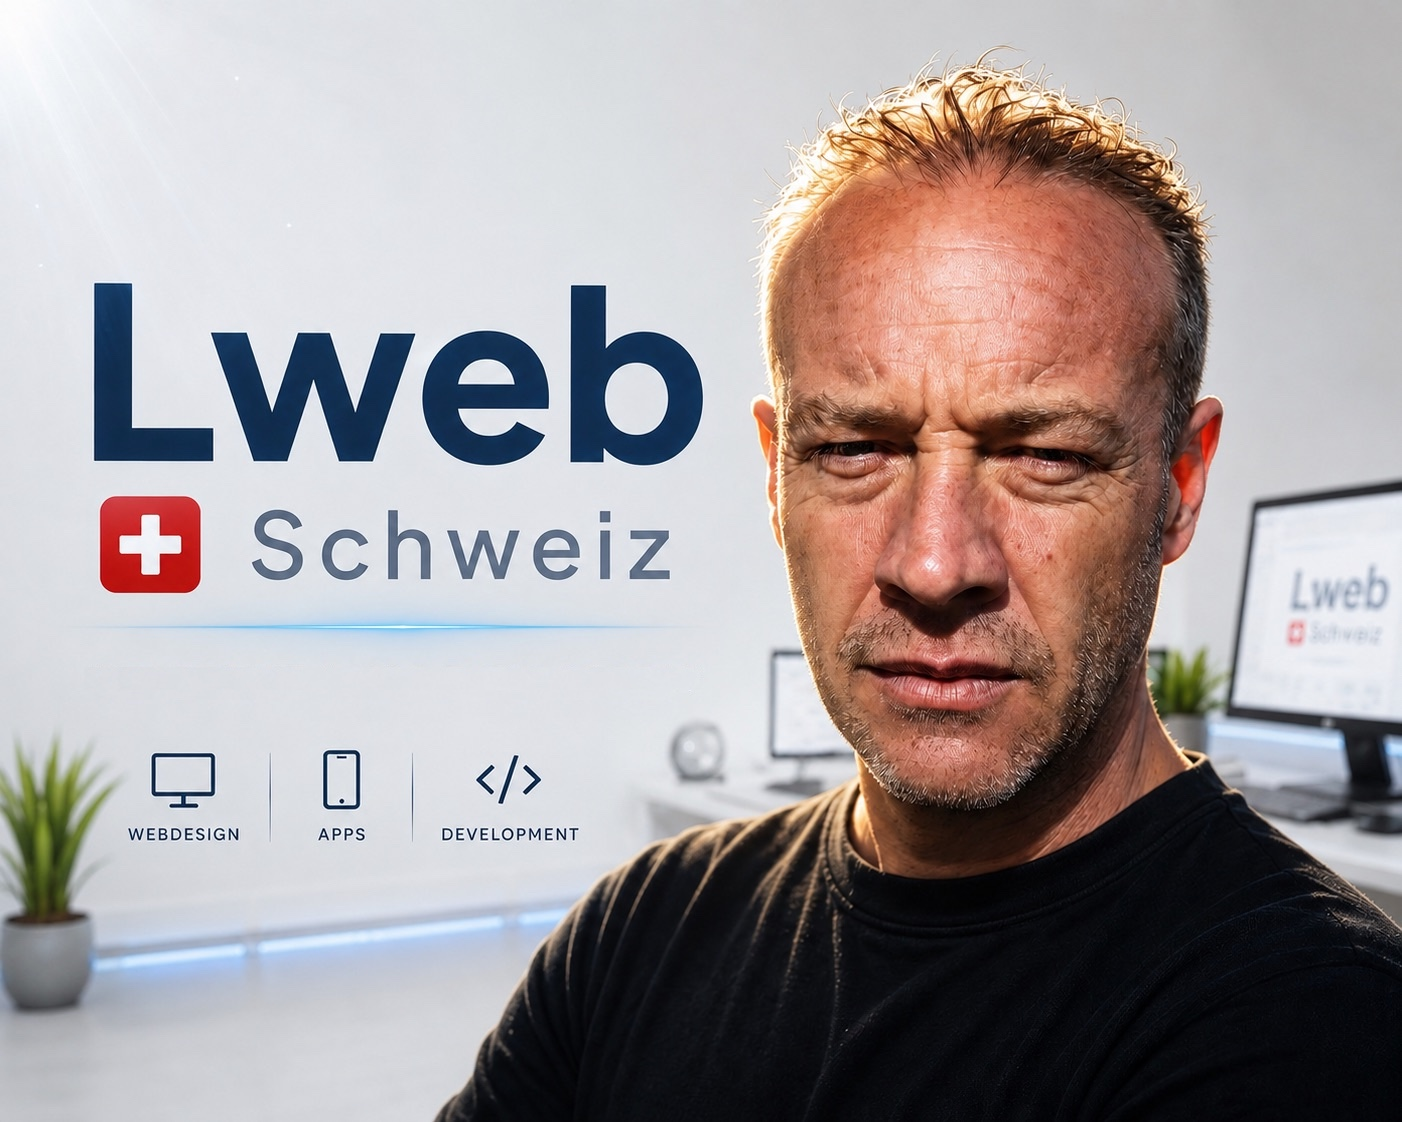
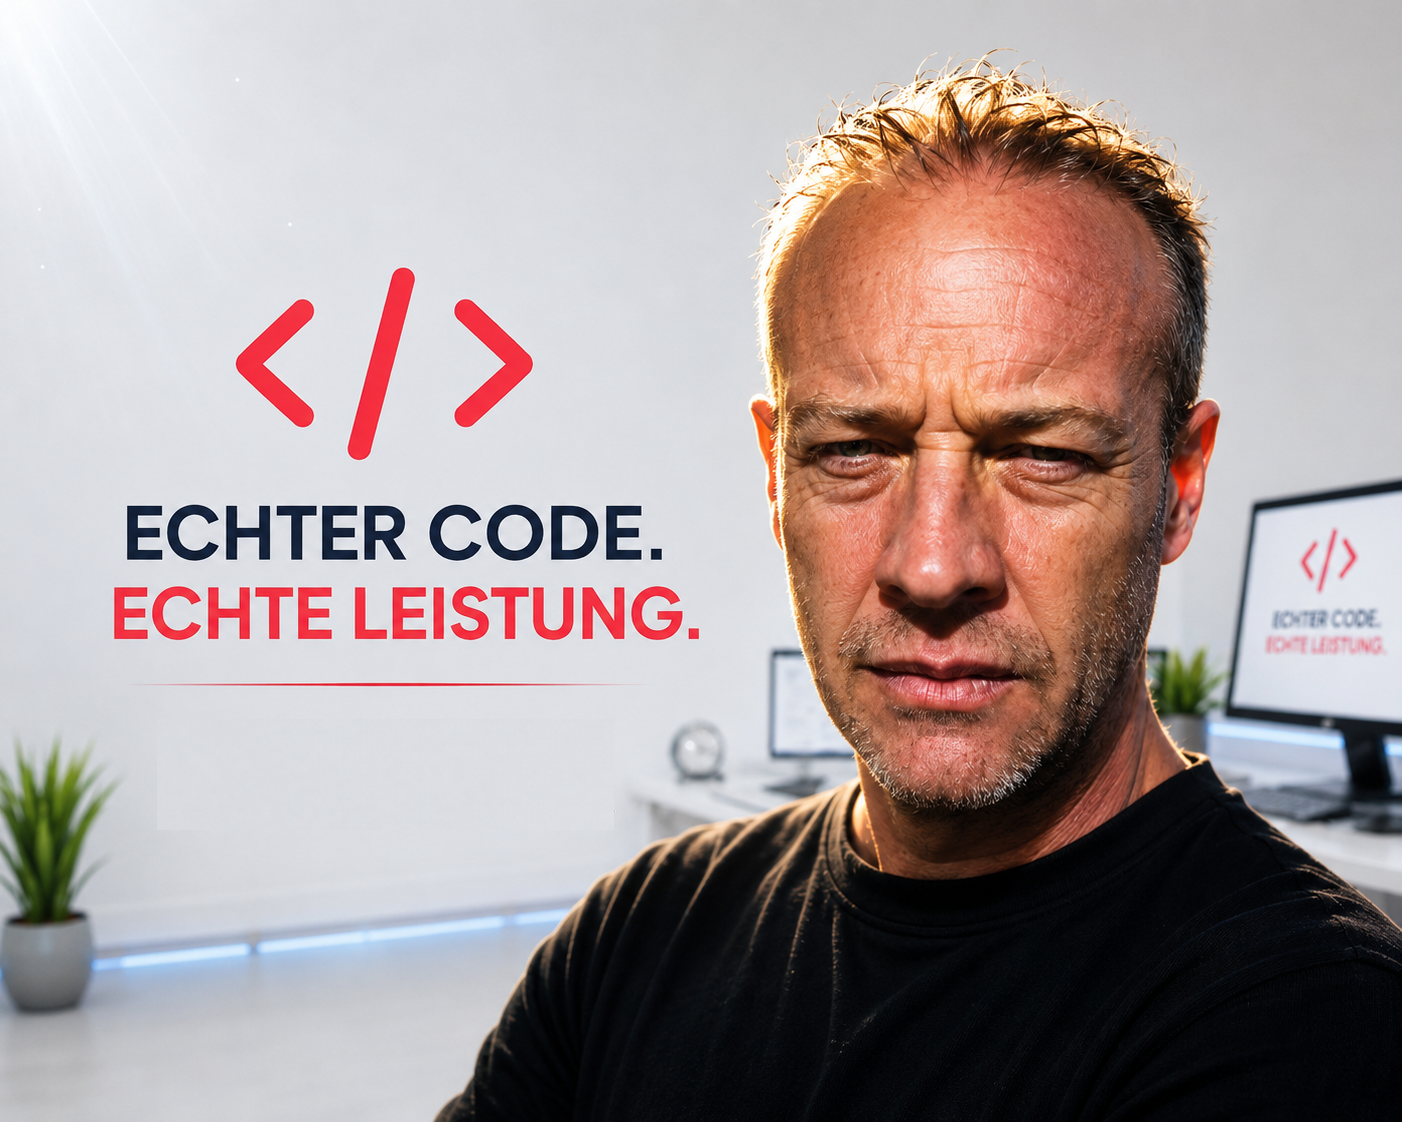
,update206“

diff --git a/index.html b/index.html
@@ -556,25 +556,10 @@ body.dark-mode #lwWelcome .lww-hi{color:#f2f7fc;}
                 </ul>
             </div>
             <div class="hero-image">
-                <div class="cl cl--photo" aria-label="Echter Code. Echte Leistung.">
+                <!-- Nur das Bild mit dem dunklen Verlauf unten —
+                     Schriftzug und Code-Zeichen stehen bereits im Bild. -->
+                <div class="cl cl--photo" role="img" aria-label="Lweb Schweiz — Webdesign & App Development">
                     <span class="cl-photo" aria-hidden="true"></span>
-                    <span class="cl-glow" aria-hidden="true"></span>
-                    <svg class="cl-mark" viewBox="0 0 120 72" width="68" height="41" fill="none" aria-hidden="true">
-                        <g stroke="currentColor" stroke-width="9" stroke-linecap="round" stroke-linejoin="round">
-                            <polyline class="cl-br cl-br--l" points="34 16 12 36 34 56"/>
-                            <polyline class="cl-br cl-br--r" points="86 16 108 36 86 56"/>
-                            <line class="cl-slash" x1="68" y1="8" x2="52" y2="64"/>
-                        </g>
-                    </svg>
-                    <span class="cl-text">
-                        <b>Echter Code.</b>
-                        <em>
-                            Echte Leistung.
-                            <svg class="cl-swoosh" viewBox="0 0 200 10" preserveAspectRatio="none" aria-hidden="true">
-                                <path d="M0 6.4C52 2.4 148 2.4 200 6.4 148 5.1 52 5.1 0 6.4Z" fill="currentColor"/>
-                            </svg>
-                        </em>
-                    </span>
                 </div>
             </div>
         </div>
